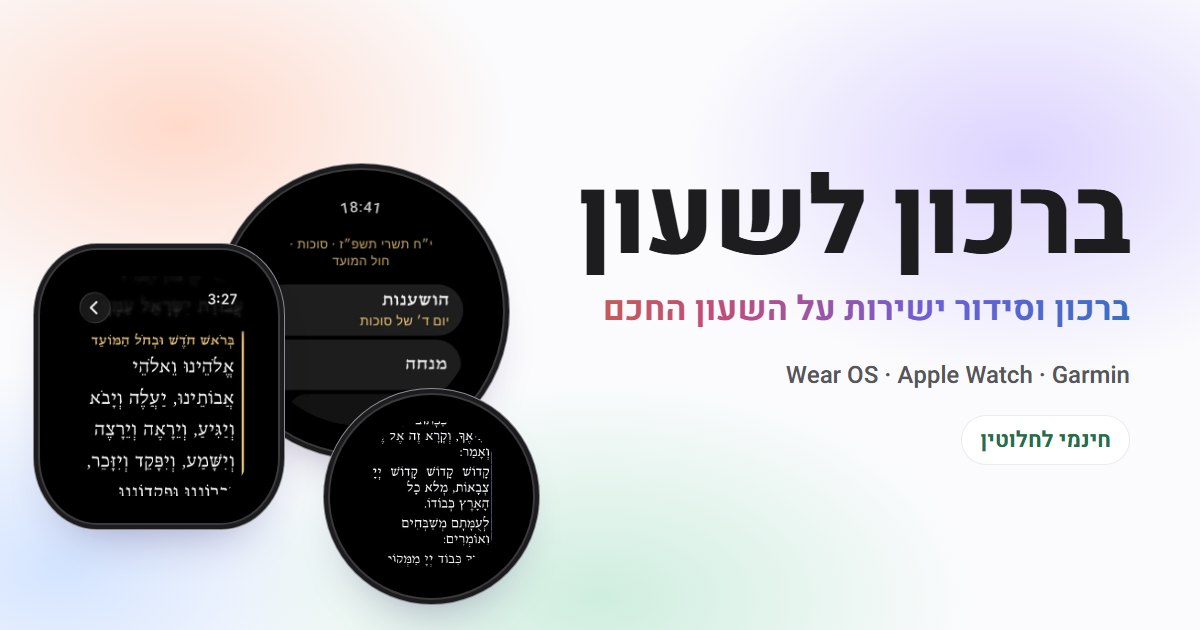
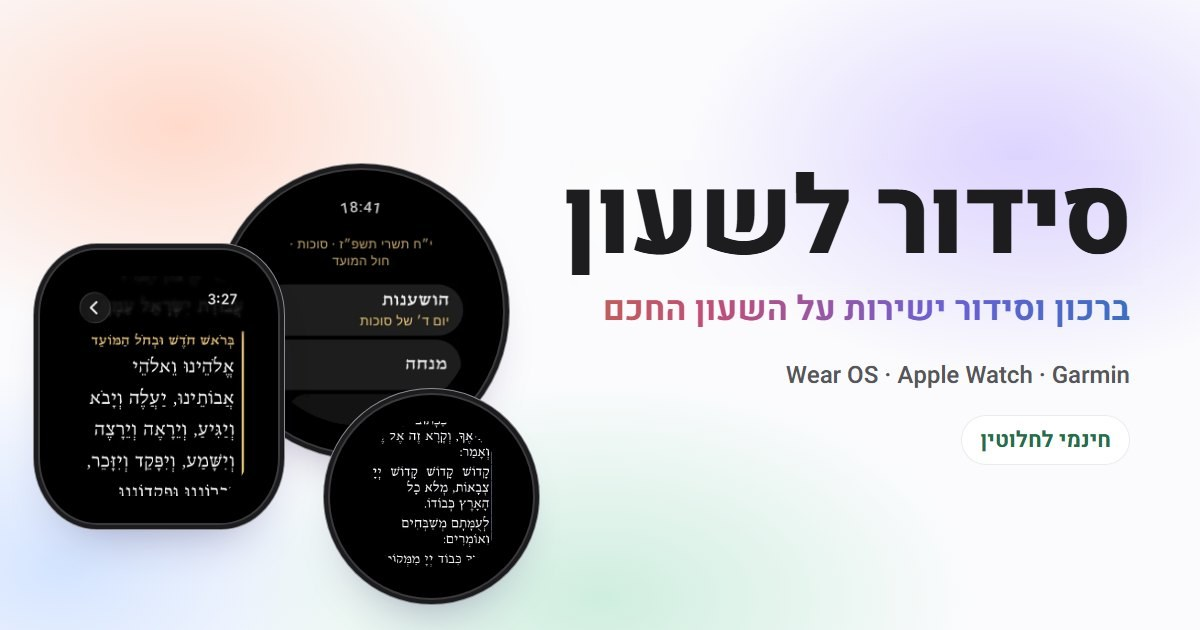
Rebrand landing site to "סידור לשעון – ברכות ותפילות" on sidur.app
- Title, meta/og tags, nav brand, hero heading and copy use the new name
- Canonical, og:url and og:image point to https://sidur.app/
- Privacy and support pages use the new name (no English brand name)
- og.jpg title redrawn as "סידור לשעון"
- Footer links the creator's other project, zmanim.cc

Claude-Session: https://claude.ai/code/session_01KvGSZmVBzsnJLDwyVZH28G

Changed region(s): [[0.4625, 0.2714, 0.9558, 0.4524]]

diff --git a/index.html b/index.html
@@ -3,19 +3,19 @@
 <head>
 <meta charset="utf-8">
 <meta name="viewport" content="width=device-width, initial-scale=1, viewport-fit=cover">
-<title>ברכון לשעון</title>
+<title>סידור לשעון – ברכות ותפילות</title>
 <meta name="description" content="ברכון וסידור ישירות על השעון החכם: ברכת המזון, אשר יצר, תפילת הדרך, קריאת שמע ועוד, גם בלי טלפון ובלי אינטרנט. נוסחי ספרד, אשכנז ועדות המזרח. חינמי לחלוטין, ל־Apple Watch, Wear OS ו־Garmin.">
-<meta property="og:title" content="ברכון לשעון">
+<meta property="og:title" content="סידור לשעון – ברכות ותפילות">
 <meta property="og:description" content="ברכון וסידור ישירות על השעון החכם. Apple Watch, Wear OS ו־Garmin.">
 <meta property="og:type" content="website">
 <meta property="og:locale" content="he_IL">
-<meta property="og:url" content="https://noam13-w.github.io/birkon/">
+<meta property="og:url" content="https://sidur.app/">
 <meta name="twitter:card" content="summary_large_image">
-<link rel="canonical" href="https://noam13-w.github.io/birkon/">
-<meta property="og:image" content="https://noam13-w.github.io/birkon/assets/og.jpg">
+<link rel="canonical" href="https://sidur.app/">
+<meta property="og:image" content="https://sidur.app/assets/og.jpg">
 <meta property="og:image:width" content="1200">
 <meta property="og:image:height" content="630">
-<meta property="og:image:alt" content="ברכון לשעון: ברכון וסידור ישירות על השעון החכם">
+<meta property="og:image:alt" content="סידור לשעון: ברכון וסידור ישירות על השעון החכם">
 <meta name="theme-color" content="#fbfbfd" id="themecolor">
 <link rel="icon" href="assets/icon-96.png">
 <link rel="apple-touch-icon" href="assets/icon.png">
@@ -71,6 +71,7 @@ h2{font-weight:800;font-size:clamp(34px,9vw,64px);line-height:1.08;letter-spacin
 .badge{display:inline-flex;align-items:center;gap:8px;padding:6px 14px;border-radius:99px;background:rgba(255,255,255,.7);border:1px solid var(--hair);font-size:14px;font-weight:500;color:var(--muted)}
 .badge b{color:var(--mint-d);font-weight:700}
 .hero h1{margin-top:18px;font-weight:800;font-size:clamp(50px,15vw,112px);line-height:1;letter-spacing:-.01em}
+.hero h1 .h1sub{display:block;margin-top:.28em;font-size:.34em;font-weight:600;letter-spacing:0;color:var(--muted)}
 .hero .tag{margin-top:12px;font-weight:700;font-size:clamp(22px,6vw,34px);line-height:1.2;letter-spacing:0;
   background:linear-gradient(90deg,#c46a3a,#c24d7a 35%,#6c5fd6 70%,#3a6fc4);-webkit-background-clip:text;background-clip:text;color:transparent;text-wrap:balance}
 .hero .lede{max-width:34em;margin:18px auto 0;color:var(--muted);font-size:18px;text-wrap:pretty}
@@ -450,7 +451,7 @@ footer .mem{font:500 17px var(--serif);color:var(--ink);text-align:center;paddin
 </svg>
 
 <nav class="nav" id="nav"><div class="wrap in">
-  <a class="brand" href="#top"><img src="assets/icon-96.png" alt="" width="26" height="26">ברכון לשעון</a>
+  <a class="brand" href="#top"><img src="assets/icon-96.png" alt="" width="26" height="26">סידור לשעון</a>
   <ul><li><a href="#features">מה בפנים</a></li><li><a href="#today">התוספות</a></li><li><a href="#screens">מסכים</a></li><li><a href="#faq">שאלות</a></li></ul>
   <a class="mlink" href="#features">מה בפנים</a>
   <a class="get" href="#download">הורדה</a>
@@ -461,7 +462,7 @@ footer .mem{font:500 17px var(--serif);color:var(--ink);text-align:center;paddin
 <header class="hero">
   <div class="wrap">
     <div class="badge in-1"><b>חינמי לחלוטין</b> · בלי טלפון ובלי אינטרנט</div>
-    <h1 class="in-2">ברכון לשעון</h1>
+    <h1 class="in-2">סידור לשעון <span class="h1sub">ברכות ותפילות</span></h1>
     <p class="tag in-3">ברכון וסידור ישירות על השעון החכם</p>
     <p class="lede in-4">ברכת המזון, אשר יצר, תפילת הדרך, קריאת שמע ועוד, זמינים ישירות מהשעון, גם בלי טלפון ובלי אינטרנט. תמיכה בנוסחי ספרד, אשכנז ועדות המזרח, עם התאמה אוטומטית לתאריך ולמיקום.</p>
     <div class="stores in-5">
@@ -514,7 +515,7 @@ footer .mem{font:500 17px var(--serif);color:var(--ink);text-align:center;paddin
           <p>בָּרוּךְ אַתָּה יְיָ, הַזָּן אֶת הַכֹּל.</p>
         </div></div><span class="paused" aria-hidden="true">עצרה</span></div></article>
       <article class="card mint has-dev c2 rv" style="--d:.16s"><span class="lbl">מה בפנים</span><h3>תשע תפילות וברכות.</h3>
-        <div class="wscr"><ul class="wmenu" id="wmenu" aria-label="התפילות בברכון"><li>מנחה</li><li>ערבית</li><li>ברכת המזון</li><li>ברכה מעין שלוש</li><li>בורא נפשות</li><li>אשר יצר</li><li>תפילת הדרך</li><li>קריאת שמע שעל המיטה</li><li>הושענות <small>בסוכות</small></li></ul></div></article>
+        <div class="wscr"><ul class="wmenu" id="wmenu" aria-label="התפילות בסידור"><li>מנחה</li><li>ערבית</li><li>ברכת המזון</li><li>ברכה מעין שלוש</li><li>בורא נפשות</li><li>אשר יצר</li><li>תפילת הדרך</li><li>קריאת שמע שעל המיטה</li><li>הושענות <small>בסוכות</small></li></ul></div></article>
       <article class="card butter wide c6 rv"><div class="nhead"><span class="lbl">נוסחים</span><h3>הנוסח שלכם, מילה במילה.</h3><p>ספרד, אשכנז ועדות המזרח, בניקוד מלא. בחרו נוסח, והמילים שמשתנות מסומנות.</p></div>
         <div class="nbox">
           <div class="nseg" role="group" aria-label="בחירת נוסח"><button data-n="s" aria-pressed="true">ספרד</button><button data-n="a" aria-pressed="false">אשכנז</button><button data-n="e" aria-pressed="false">עדות המזרח</button></div>
@@ -532,7 +533,7 @@ footer .mem{font:500 17px var(--serif);color:var(--ink);text-align:center;paddin
 
 <section class="today" id="today">
   <div class="wrap">
-    <div class="center rv"><h2>יודע איזה יום היום.</h2><p class="sub">הברכון מחשב את התאריך העברי ואת שעת השקיעה, ומכניס את מה שאומרים היום. כל תוספת מסומנת, כך שרואים מיד מה נוסף.</p></div>
+    <div class="center rv"><h2>יודע איזה יום היום.</h2><p class="sub">הסידור מחשב את התאריך העברי ואת שעת השקיעה, ומכניס את מה שאומרים היום. כל תוספת מסומנת, כך שרואים מיד מה נוסף.</p></div>
     <div class="panel rv">
       <p class="now" id="now" hidden></p>
       <div class="days" role="group" aria-label="בחרו יום">
@@ -559,9 +560,9 @@ footer .mem{font:500 17px var(--serif);color:var(--ink);text-align:center;paddin
 </section>
 
 <section id="screens" style="padding-bottom:40px">
-  <div class="wrap center rv"><h2>אותו ברכון, על כל שעון.</h2></div>
+  <div class="wrap center rv"><h2>אותו סידור, על כל שעון.</h2></div>
   <div class="rail-wrap">
-  <div class="rail" id="rail" tabindex="0" role="region" aria-label="מסכים מהברכון">
+  <div class="rail" id="rail" tabindex="0" role="region" aria-label="מסכים מהסידור">
     <article class="slide" data-p="wear"><span class="lbl">Wear OS</span><h3>מסך הבית</h3><p>כל התפילות, והתאריך העברי למעלה.</p><div class="dev"><img src="assets/wear-home.webp" alt="מסך הבית ב־Wear OS" loading="lazy" width="466" height="466"></div></article>
     <article class="slide" data-p="apple"><span class="lbl">Apple Watch</span><h3>ערבית</h3><p>התוספות של היום מסומנות בצבע.</p><div class="dev sq"><img src="assets/apple-maariv.webp" alt="ערבית ב־Apple Watch" loading="lazy" width="403" height="480"></div></article>
     <article class="slide" data-p="garmin"><span class="lbl">Garmin</span><h3>מנחה</h3><p>עם קרבנות ופטום הקטורת כאפשרות.</p><div class="dev"><img src="assets/garmin-mincha.webp" alt="מנחה ב־Garmin" loading="lazy" width="454" height="454"></div></article>
@@ -582,7 +583,7 @@ footer .mem{font:500 17px var(--serif);color:var(--ink);text-align:center;paddin
   <div class="wrap">
     <div class="rv"><h2>הכול על השעון.</h2><p class="sub">בלי טלפון, בלי אינטרנט ובלי איסוף מידע.</p></div>
     <div class="row">
-      <div class="card sky rv"><div class="ico"><svg viewBox="0 0 24 24" stroke="#3a6fc4"><rect x="7" y="2" width="10" height="20" rx="2.5"/><path d="M4 4l16 16"/></svg></div><h3>בלי טלפון</h3><p>הברכון פועל על השעון עצמו.</p></div>
+      <div class="card sky rv"><div class="ico"><svg viewBox="0 0 24 24" stroke="#3a6fc4"><rect x="7" y="2" width="10" height="20" rx="2.5"/><path d="M4 4l16 16"/></svg></div><h3>בלי טלפון</h3><p>הסידור פועל על השעון עצמו.</p></div>
       <div class="card lav rv" style="--d:.08s"><div class="ico"><svg viewBox="0 0 24 24" stroke="#6c5fd6"><path d="M2 8.5a15 15 0 0 1 20 0M5 12a10 10 0 0 1 14 0M8.5 15.5a5 5 0 0 1 7 0"/><circle cx="12" cy="19" r="1"/><path d="M3 3l18 18"/></svg></div><h3>בלי אינטרנט</h3><p>לא צריך חיבור, גם לא לתפילה עצמה.</p></div>
       <div class="card mint rv" style="--d:.16s"><div class="ico"><svg viewBox="0 0 24 24" stroke="#2f8a5f"><path d="M12 3l8 3v6c0 5-3.5 8-8 9-4.5-1-8-4-8-9V6l8-3z"/><path d="M8.5 12l2.5 2.5 4.5-5"/></svg></div><h3>בלי איסוף מידע</h3><p>המיקום משמש רק לחישוב השקיעה, על השעון עצמו.</p></div>
     </div>
@@ -593,10 +594,10 @@ footer .mem{font:500 17px var(--serif);color:var(--ink);text-align:center;paddin
   <div class="wrap">
     <div class="center rv"><h2>שאלות נפוצות.</h2></div>
     <div class="faq rv">
-      <details><summary>צריך טלפון או אינטרנט?</summary><p>לא. הברכון פועל על השעון עצמו, בלי טלפון ובלי חיבור לאינטרנט. ההתקנה נעשית מהחנות של השעון שלכם.</p></details>
-      <details><summary>כמה זה עולה?</summary><p>הברכון חינמי לחלוטין.</p></details>
+      <details><summary>צריך טלפון או אינטרנט?</summary><p>לא. הסידור פועל על השעון עצמו, בלי טלפון ובלי חיבור לאינטרנט. ההתקנה נעשית מהחנות של השעון שלכם.</p></details>
+      <details><summary>כמה זה עולה?</summary><p>הסידור חינמי לחלוטין.</p></details>
       <details><summary>אילו נוסחים יש?</summary><p>ספרד, אשכנז ועדות המזרח, בניקוד מלא ובגופן עברי ברור.</p></details>
-      <details><summary>מה עם מידע אישי?</summary><p>הברכון לא אוסף שום מידע ולא מתחבר לאינטרנט. המיקום האחרון של השעון משמש רק לחישוב השקיעה ולזיהוי ארץ ישראל או חו״ל, על השעון עצמו.</p></details>
+      <details><summary>מה עם מידע אישי?</summary><p>הסידור לא אוסף שום מידע ולא מתחבר לאינטרנט. המיקום האחרון של השעון משמש רק לחישוב השקיעה ולזיהוי ארץ ישראל או חו״ל, על השעון עצמו.</p></details>
       <details><summary>מצאתי טעות בנוסח. למי לפנות?</summary><p>נשמח לשמוע: <a dir="ltr" href="mailto:support@nisai.dev">support@nisai.dev</a></p></details>
     </div>
   </div>
@@ -618,8 +619,9 @@ footer .mem{font:500 17px var(--serif);color:var(--ink);text-align:center;paddin
   <div class="wrap">
     <div class="mem">לעילוי נשמת ירחמיאל חיים בן אליהו אליעזר ז״ל</div>
     <div>מצאתם טעות בנוסח או משהו שאפשר לשפר? נשמח לשמוע: <a dir="ltr" href="mailto:support@nisai.dev">support@nisai.dev</a> · <a href="privacy.html">מדיניות הפרטיות</a></div>
+    <div>עוד מאיתנו: <a href="https://zmanim.cc" target="_blank" rel="noopener"><bdi>zmanim.cc</bdi></a> – זמני היום ההלכתיים לכל עיר בישראל</div>
     <div>הגופן בשעון: הדסים מאת יורם גנת (פרויקט קולמוס), ברישיון GPL v2 עם חריגת הגופנים. <a href="https://github.com/Noam13-w/birkon-garmin-fonts" target="_blank" rel="noopener">הגופנים לשעון וקוד המקור</a></div>
-    <div class="en" lang="en">Birkon Watch: Hebrew Blessings. A Hebrew birkon and prayer book for Apple Watch, Wear OS and Garmin: Mincha, Maariv, Birkat HaMazon, Me'ein Shalosh, Borei Nefashot, Asher Yatzar, Tefilat HaDerech, Shema al HaMita and Hoshanot, in Sefard, Ashkenaz and Edot HaMizrach, with the day's insertions added automatically. Fully offline, collects no data. <a href="privacy.html#en">Privacy policy</a></div>
+    <div class="en" lang="en"><span lang="he" dir="rtl">סידור לשעון – ברכות ותפילות</span>. A Hebrew birkon and prayer book for Apple Watch, Wear OS and Garmin: Mincha, Maariv, Birkat HaMazon, Me'ein Shalosh, Borei Nefashot, Asher Yatzar, Tefilat HaDerech, Shema al HaMita and Hoshanot, in Sefard, Ashkenaz and Edot HaMizrach, with the day's insertions added automatically. Fully offline, collects no data. <a href="privacy.html#en">Privacy policy</a></div>
   </div>
 </footer>
 

diff --git a/privacy.html b/privacy.html
@@ -3,8 +3,8 @@
 <head>
 <meta charset="utf-8">
 <meta name="viewport" content="width=device-width, initial-scale=1">
-<title>ברכון לשעון · מדיניות פרטיות</title>
-<meta name="description" content="Privacy policy for Birkon Watch (ברכון לשעון), a Hebrew birkon for Wear OS. The app collects no data.">
+<title>סידור לשעון · מדיניות פרטיות</title>
+<meta name="description" content="Privacy policy for סידור לשעון – ברכות ותפילות, a Hebrew siddur and birkon for smartwatches. The app collects no data.">
 <style>
   :root {
     --bg: #f7f5ef;
@@ -66,12 +66,12 @@
   <nav><a href="./">דף הבית</a><a href="#he">עברית</a><a href="#en" lang="en" dir="ltr">English</a></nav>
 
   <section id="he" lang="he" dir="rtl">
-    <h1>מדיניות פרטיות: ברכון לשעון</h1>
+    <h1>מדיניות פרטיות: סידור לשעון</h1>
     <p class="date">תאריך עדכון: 26 בספטמבר 2026</p>
-    <p>מדיניות זו חלה על האפליקציה "ברכון לשעון" לשעוני <bdi>Wear OS</bdi> ולשעוני <bdi>Apple Watch</bdi>. שם האפליקציה באנגלית: <bdi>Birkon Watch</bdi>, ומזהה החבילה שלה: <code dir="ltr">com.noam.birkon</code>.</p>
+    <p>מדיניות זו חלה על האפליקציה "סידור לשעון – ברכות ותפילות" לשעוני <bdi>Wear OS</bdi> ולשעוני <bdi>Apple Watch</bdi>. מזהה החבילה שלה: <code dir="ltr">com.noam.birkon</code>.</p>
 
     <h2>בקצרה</h2>
-    <p class="lead">ברכון לשעון לא אוסף, לא שומר אצלנו ולא משתף שום מידע אישי. האפליקציה עובדת כולה על השעון ואין לה גישה לאינטרנט.</p>
+    <p class="lead">סידור לשעון לא אוסף, לא שומר אצלנו ולא משתף שום מידע אישי. האפליקציה עובדת כולה על השעון ואין לה גישה לאינטרנט.</p>
 
     <h2>איזה מידע נאסף</h2>
     <p>אף מידע. באפליקציה אין חשבון משתמש, אין פרסומות, אין כלי ניתוח או מעקב, ואין דיווח קריסות לשרת. לאפליקציה אין הרשאת אינטרנט, ולכן היא לא יכולה לשלוח מידע מהשעון לשום מקום.</p>
@@ -99,12 +99,12 @@
   </section>
 
   <section id="en" lang="en" dir="ltr">
-    <h1>Privacy Policy: Birkon Watch</h1>
+    <h1>Privacy Policy: <span lang="he" dir="rtl">סידור לשעון</span></h1>
     <p class="date">Last updated: September 26, 2026</p>
-    <p>This policy applies to the "Birkon Watch" app (<span lang="he" dir="rtl">ברכון לשעון</span>, package <code>com.noam.birkon</code>) for Wear OS watches and Apple Watch.</p>
+    <p>This policy applies to the app <span lang="he" dir="rtl">סידור לשעון – ברכות ותפילות</span> (package <code>com.noam.birkon</code>) for Wear OS watches and Apple Watch.</p>
 
     <h2>In short</h2>
-    <p class="lead">Birkon Watch does not collect, store on any server, or share any personal information. The app runs entirely on the watch and has no internet access.</p>
+    <p class="lead">The app does not collect, store on any server, or share any personal information. The app runs entirely on the watch and has no internet access.</p>
 
     <h2>Information we collect</h2>
     <p>None. The app has no user accounts, no ads, no analytics or tracking tools, and no crash reporting to a server. It does not have the internet permission, so it cannot send any data off the watch.</p>
@@ -131,7 +131,7 @@
     <p>Questions about privacy or the app: <a href="mailto:support@nisai.dev">support@nisai.dev</a></p>
   </section>
 
-  <footer>ברכון לשעון · Birkon Watch</footer>
+  <footer>סידור לשעון – ברכות ותפילות · <a href="https://sidur.app/">sidur.app</a></footer>
 </main>
 </body>
 </html>

diff --git a/support.html b/support.html
@@ -1,1 +1,1 @@
-<!doctype html><html lang="he" dir="rtl"><head><meta charset="utf-8"><meta http-equiv="refresh" content="0; url=./#support"><title>תמיכה · ברכון לשעון</title></head><body><a href="./#support">תמיכה</a></body></html>
+<!doctype html><html lang="he" dir="rtl"><head><meta charset="utf-8"><meta http-equiv="refresh" content="0; url=./#support"><title>תמיכה · סידור לשעון</title></head><body><a href="./#support">תמיכה</a></body></html>
